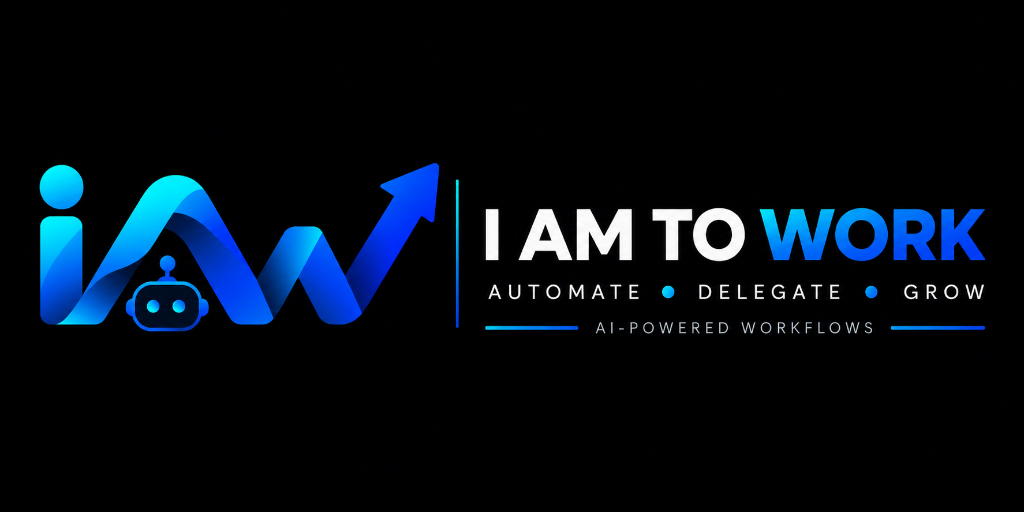
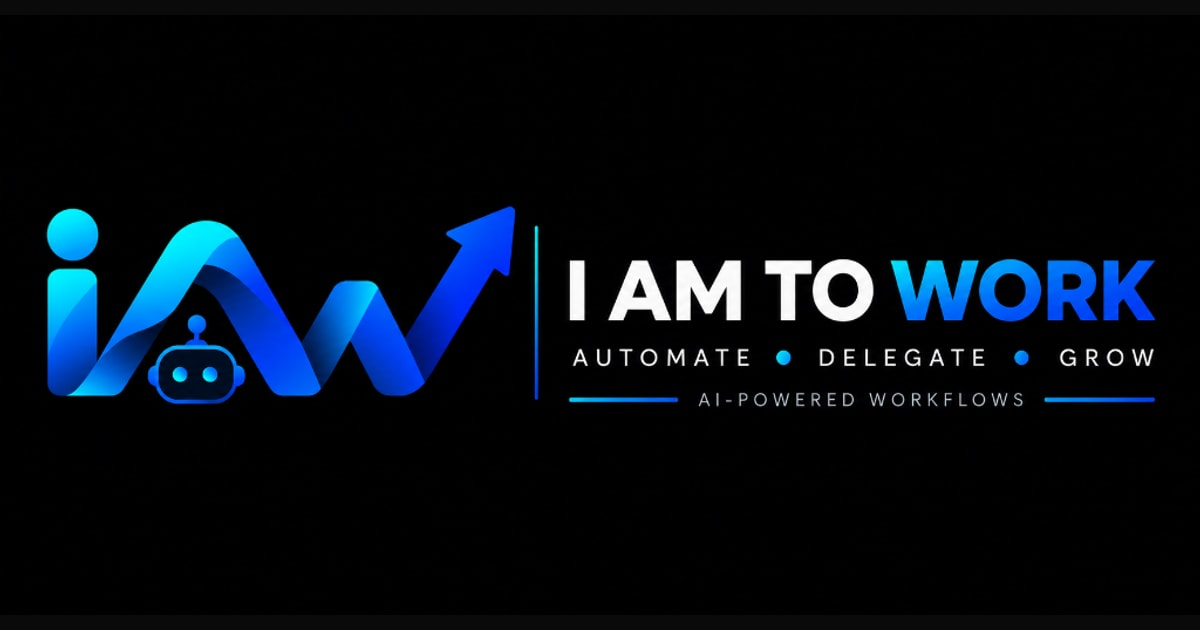
fix(seo,security,perf): add H1, CSP, modern headers, www canonical, and webp assets

diff --git a/next.config.ts b/next.config.ts
@@ -1,5 +1,24 @@
 import type { NextConfig } from 'next';
 
+const isDev = process.env.NODE_ENV === 'development';
+
+const cspHeader = `
+  default-src 'self';
+  script-src 'self' 'unsafe-inline'${isDev ? " 'unsafe-eval'" : ''} https://www.googletagmanager.com https://www.google-analytics.com https://connect.facebook.net;
+  style-src 'self' 'unsafe-inline';
+  img-src 'self' blob: data: https://www.facebook.com https://www.google-analytics.com https://www.googletagmanager.com https://*.supabase.co;
+  font-src 'self' data:;
+  connect-src 'self' https://www.google-analytics.com https://analytics.google.com https://www.googletagmanager.com https://connect.facebook.net https://www.facebook.com https://*.supabase.co wss://*.supabase.co;
+  frame-src 'self' https://www.facebook.com https://calendly.com;
+  object-src 'none';
+  base-uri 'self';
+  form-action 'self';
+  frame-ancestors 'none';
+  upgrade-insecure-requests;
+`
+  .replace(/\s{2,}/g, ' ')
+  .trim();
+
 const nextConfig: NextConfig = {
   turbopack: {
     root: process.cwd(),
@@ -15,18 +34,24 @@ const nextConfig: NextConfig = {
   async headers() {
     return [
       {
-        source: '/(.*)',
+        source: '/:path*',
         headers: [
+          { key: 'Content-Security-Policy', value: cspHeader },
           { key: 'X-Content-Type-Options', value: 'nosniff' },
           { key: 'X-Frame-Options', value: 'DENY' },
           { key: 'Referrer-Policy', value: 'strict-origin-when-cross-origin' },
-          { key: 'Permissions-Policy', value: 'camera=(), microphone=(), geolocation=()' },
+          { key: 'Permissions-Policy', value: 'camera=(), microphone=(), geolocation=(), browsing-topics=()' },
+          { key: 'Strict-Transport-Security', value: 'max-age=63072000; includeSubDomains; preload' },
+          { key: 'X-DNS-Prefetch-Control', value: 'on' },
+          { key: 'Cross-Origin-Opener-Policy', value: 'same-origin' },
+          { key: 'Cross-Origin-Resource-Policy', value: 'same-origin' },
         ],
       },
       {
-        source: '/(.*).(ico|png|jpg|jpeg|svg|webp|avif|woff2)',
+        source: '/:path*\\.(ico|png|jpg|jpeg|svg|webp|avif|woff2|woff)',
         headers: [
           { key: 'Cache-Control', value: 'public, max-age=31536000, immutable' },
+          { key: 'Cross-Origin-Resource-Policy', value: 'cross-origin' },
         ],
       },
     ];

diff --git a/src/app/layout.tsx b/src/app/layout.tsx
@@ -18,6 +18,7 @@ export const metadata: Metadata = {
     languages: {
       'en-US': '/',
       'en': '/',
+      'x-default': '/',
     },
   },
   openGraph: {
@@ -30,10 +31,17 @@ export const metadata: Metadata = {
         url: '/og-image.jpg',
         width: 1200,
         height: 630,
+        alt: `${SITE.name} - Custom AI Websites & Business Automation`,
       },
     ],
     locale: 'en_US',
     type: 'website',
+  },
+  twitter: {
+    card: 'summary_large_image',
+    title: `${SITE.name} | AI Websites & Business Automation`,
+    description: SITE.description,
+    images: ['/og-image.jpg'],
   },
 };
 
@@ -90,7 +98,12 @@ export default function RootLayout({
           type="application/ld+json"
           dangerouslySetInnerHTML={{ __html: JSON.stringify(localBusinessSchema) }}
         />
-        
+      </head>
+      <body>
+        <Navigation />
+        <main>{children}</main>
+        <Footer />
+
         {/* Google Analytics */}
         {TRACKING.googleAnalyticsId && (
           <>
@@ -118,7 +131,7 @@ export default function RootLayout({
           <>
             <Script
               id="facebook-pixel"
-              strategy="afterInteractive"
+              strategy="lazyOnload"
               dangerouslySetInnerHTML={{
                 __html: `
                   !function(f,b,e,v,n,t,s)
@@ -145,11 +158,6 @@ export default function RootLayout({
             </noscript>
           </>
         )}
-      </head>
-      <body>
-        <Navigation />
-        <main>{children}</main>
-        <Footer />
       </body>
     </html>
   );

diff --git a/src/components/sections/HeroSection.tsx b/src/components/sections/HeroSection.tsx
@@ -16,9 +16,11 @@ export default function HeroSection() {
           AI Services for Modern Businesses
         </AnimatedDiv>
 
-        <AnimatedDiv delay={0.2} className={styles.headline}>
-          <span className={styles.headlineLine}>Reclaim Your Time.</span>
-          <span className={styles.accent}>Automate the Busywork.</span>
+        <AnimatedDiv delay={0.2}>
+          <h1 className={styles.headline}>
+            <span className={styles.headlineLine}>Reclaim Your Time.</span>
+            <span className={styles.accent}>Automate the Busywork.</span>
+          </h1>
         </AnimatedDiv>
 
         <AnimatedDiv delay={0.3}>

diff --git a/src/lib/config.ts b/src/lib/config.ts
@@ -7,7 +7,7 @@ export const SITE = {
   tagline: 'Build Faster. Automate Smarter. Grow with AI.',
   description:
     'I Am To Work helps clients build custom AI websites, automate workflows for lead capture, and deliver practical solutions that drive real business outcomes.',
-  url: 'https://iamtowork.com',
+  url: 'https://www.iamtowork.com',
 };
 
 export const CONTACT = {

diff --git a/src/components/Navigation.tsx b/src/components/Navigation.tsx
@@ -60,7 +60,7 @@ export function Navigation() {
         <div className={styles.logo}>
           <Link href="/">
             <Image
-              src="/logo.png"
+              src="/logo.webp"
               alt="I Am To Work"
               width={170}
               height={48}
